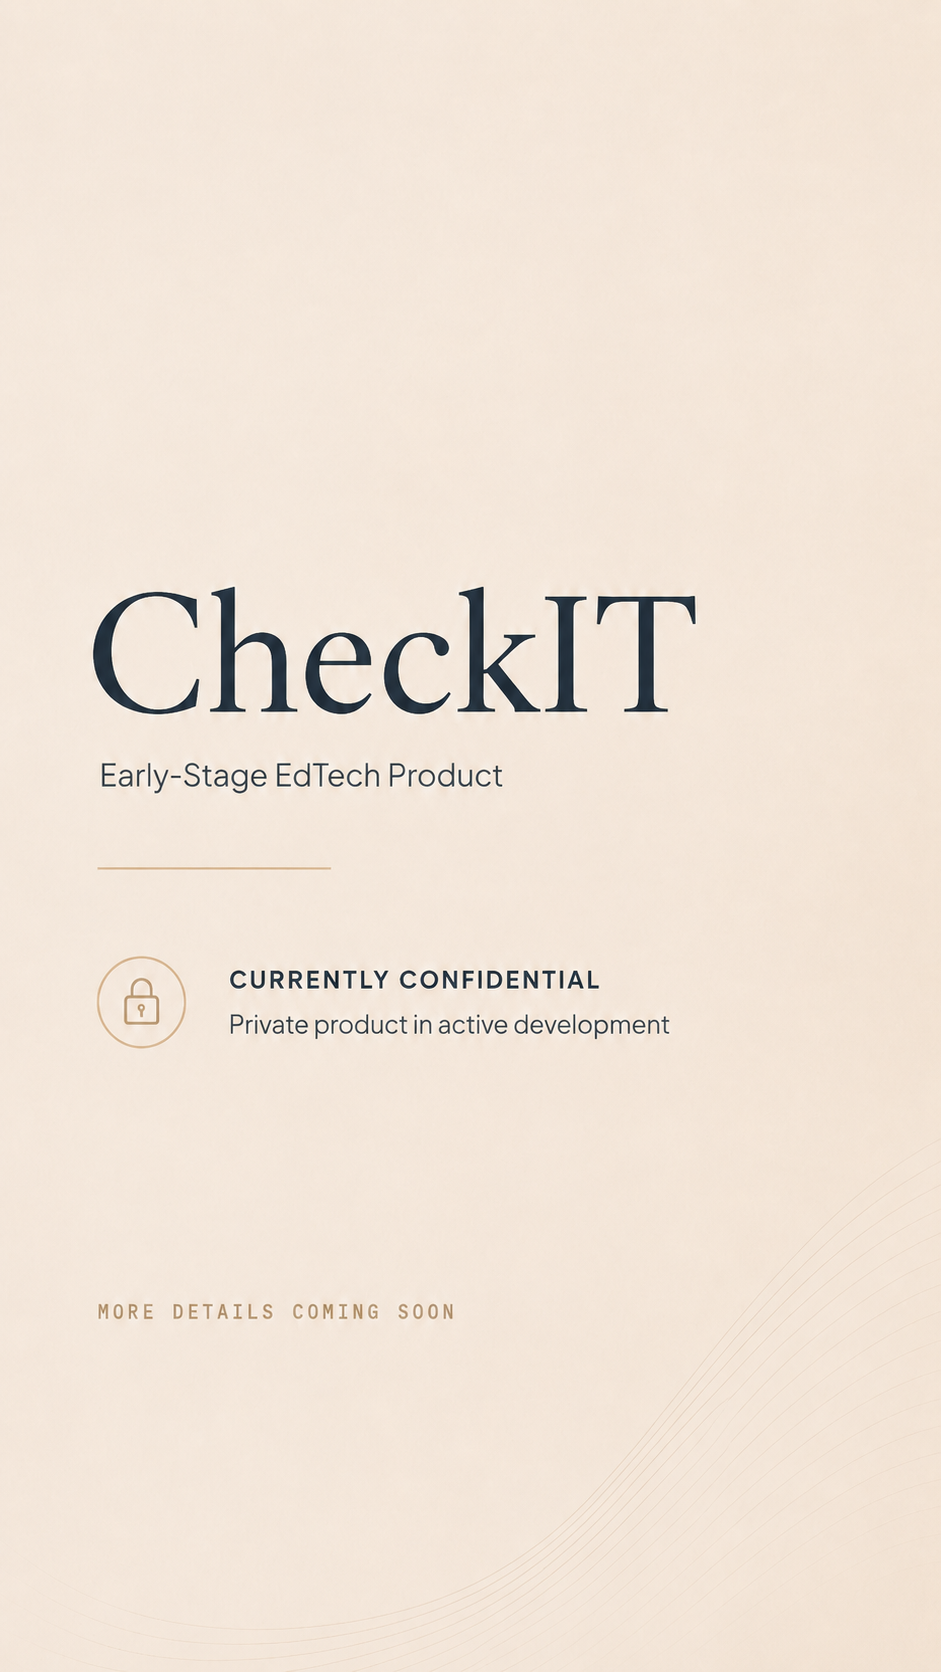
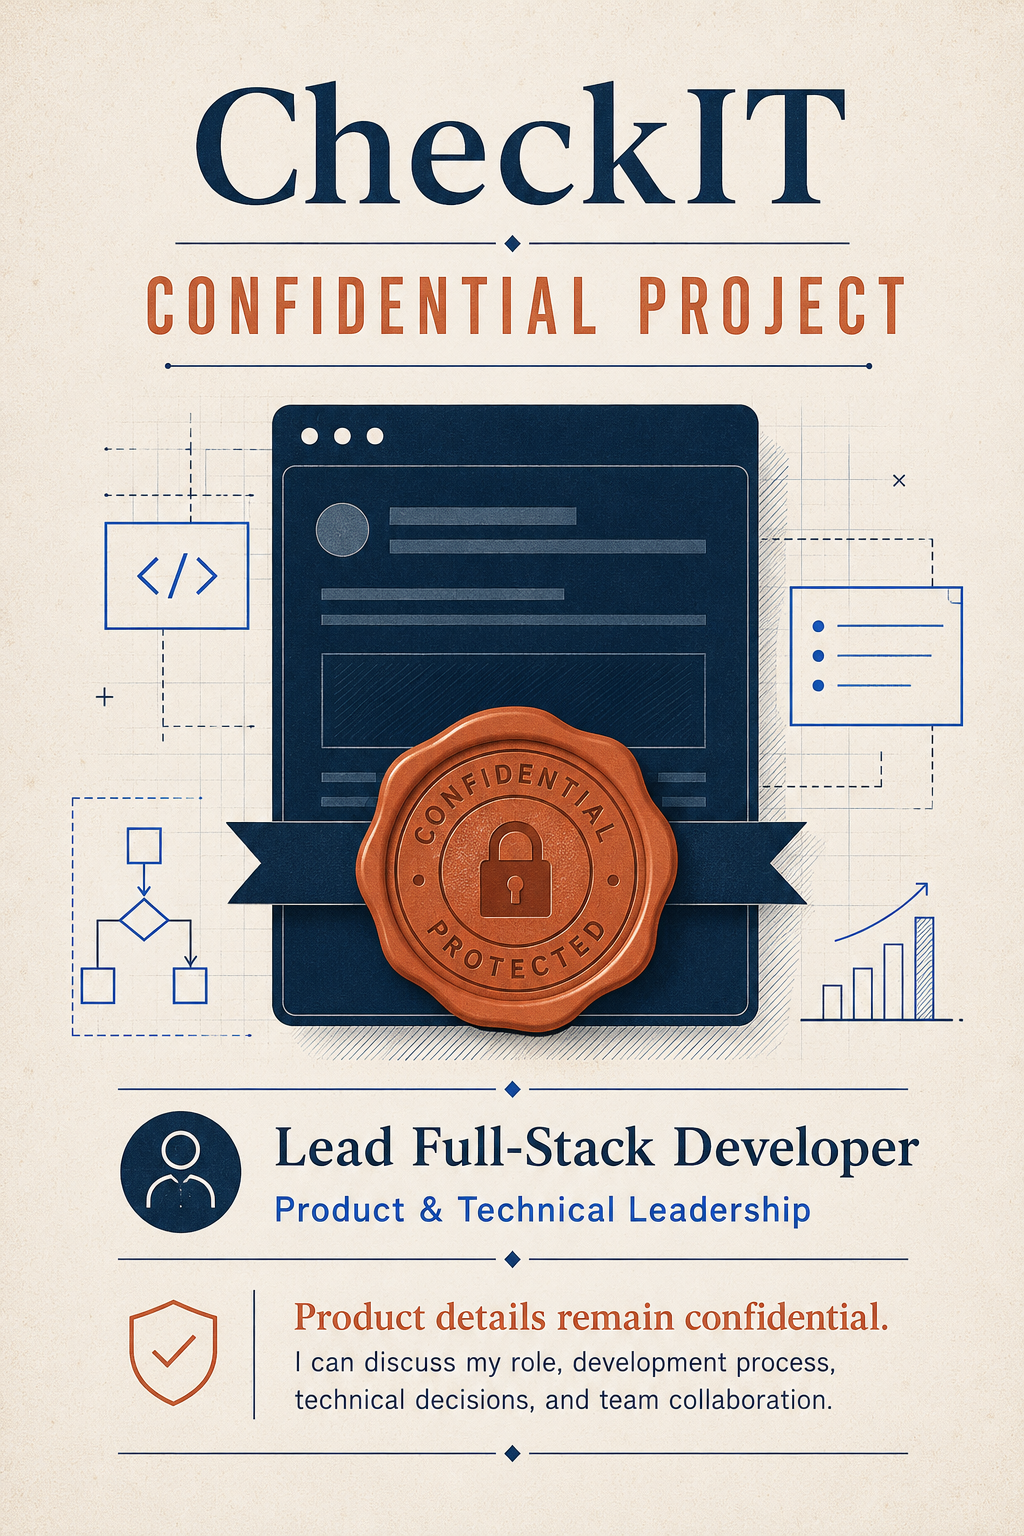
fix: align project presentation content

diff --git a/src/content/portfolio.ts b/src/content/portfolio.ts
@@ -262,7 +262,7 @@ export const projects = [
   {
     id: "queryops",
     number: "01",
-    title: "QueryOps",
+    title: "QueryOps AI",
     subtitle: "IT Operations · Data Governance",
     role: "Founder, Product Lead & Full-Stack Developer",
     duration: "May 2026 – Present",
@@ -308,10 +308,10 @@ export const projects = [
           body: "Operational teams need answers from structured data, but direct database access can be unsafe, too technical, or too broad. A simple natural-language query interface is not enough when results must respect scope, permissions, and operational controls.",
         },
         build: {
-          body: "QueryOps brings the governed workflow into one clear path: ask a scoped question, review a safe result, save a useful view, and route sensitive follow-up actions through approval and audit. The experience keeps controls visible without letting them overpower the task.",
+          body: "QueryOps AI brings the governed workflow into one clear path: ask a scoped question, review a safe result, save a useful view, and route sensitive follow-up actions through approval and audit. The experience keeps controls visible without letting them overpower the task.",
         },
         outcome: {
-          body: "QueryOps demonstrates an end-to-end governed data workflow: investigate a scoped operational question, review a safe result, then request and track a controlled action with approval and auditability.",
+          body: "QueryOps AI demonstrates an end-to-end governed data workflow: investigate a scoped operational question, review a safe result, then request and track a controlled action with approval and auditability.",
           qualifier:
             "Locally runnable demo using deterministic synthetic IT Operations data and a mock LLM provider — not a production deployment.",
         },
@@ -375,7 +375,7 @@ export const projects = [
     number: "02",
     title: "CheckIT",
     subtitle: "Early-Stage EdTech Product",
-    role: "Full-Stack Developer",
+    role: "Lead Full-Stack Developer",
     duration: "January 2026 – Present",
     status: "Active Development",
     visibility: "Private",
@@ -403,7 +403,7 @@ export const projects = [
     },
     poster: checkItProductPoster,
     caseStudy: {
-      projectLabel: "Product Leadership",
+      projectLabel: "Product & Technical Leadership",
       category: "EdTech · Adaptive Practice",
       facts: [
         "Lead Full-Stack Developer",

diff --git a/src/components/projects/QueryOpsProjectPreview.tsx b/src/components/projects/QueryOpsProjectPreview.tsx
@@ -41,7 +41,7 @@ const productViews = [
     eyebrow: "01 / GOVERNED WORKSPACE",
     title: "Data access with operational context.",
     description:
-      "QueryOps brings scoped exploration, reusable views, and controlled actions into one role-aware workspace.",
+      "QueryOps AI brings scoped exploration, reusable views, and controlled actions into one role-aware workspace.",
     proofs: ["Role-aware", "Scoped access", "Synthetic demo data"],
   },
   {
@@ -138,7 +138,7 @@ function ProductTopbar() {
         <span aria-hidden="true" className={styles.productMark}>
           <LuDatabaseZap />
         </span>
-        <strong>QueryOps</strong>
+        <strong>QueryOps AI</strong>
         <span className={styles.demoLabel}>Demo workspace</span>
       </div>
       <div className={styles.viewerContext} aria-label="Preview viewer context">
@@ -588,10 +588,10 @@ export function QueryOpsProductPreview() {
 
   return (
     <div className={styles.previewLayout}>
-      <section className={styles.productFrame} aria-label="Interactive QueryOps product preview">
+      <section className={styles.productFrame} aria-label="Interactive QueryOps AI product preview">
         <ProductTopbar />
         <div className={styles.productBody}>
-          <nav className={styles.productNav} aria-label="QueryOps preview navigation">
+          <nav className={styles.productNav} aria-label="QueryOps AI preview navigation">
             <div role="tablist" aria-orientation="vertical" className={styles.navList}>
               {productViews.map((view, index) => {
                 const Icon = view.icon;